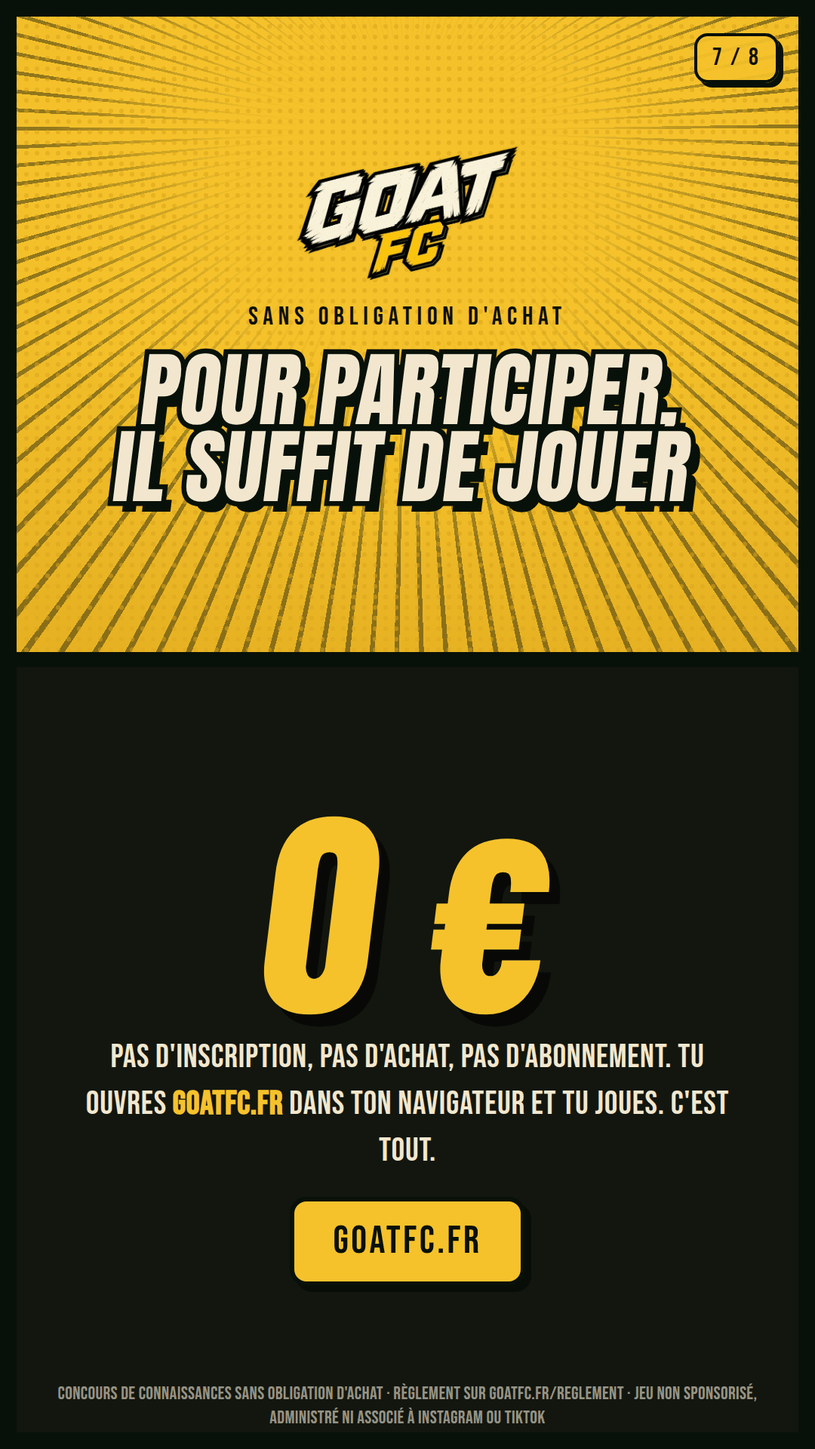
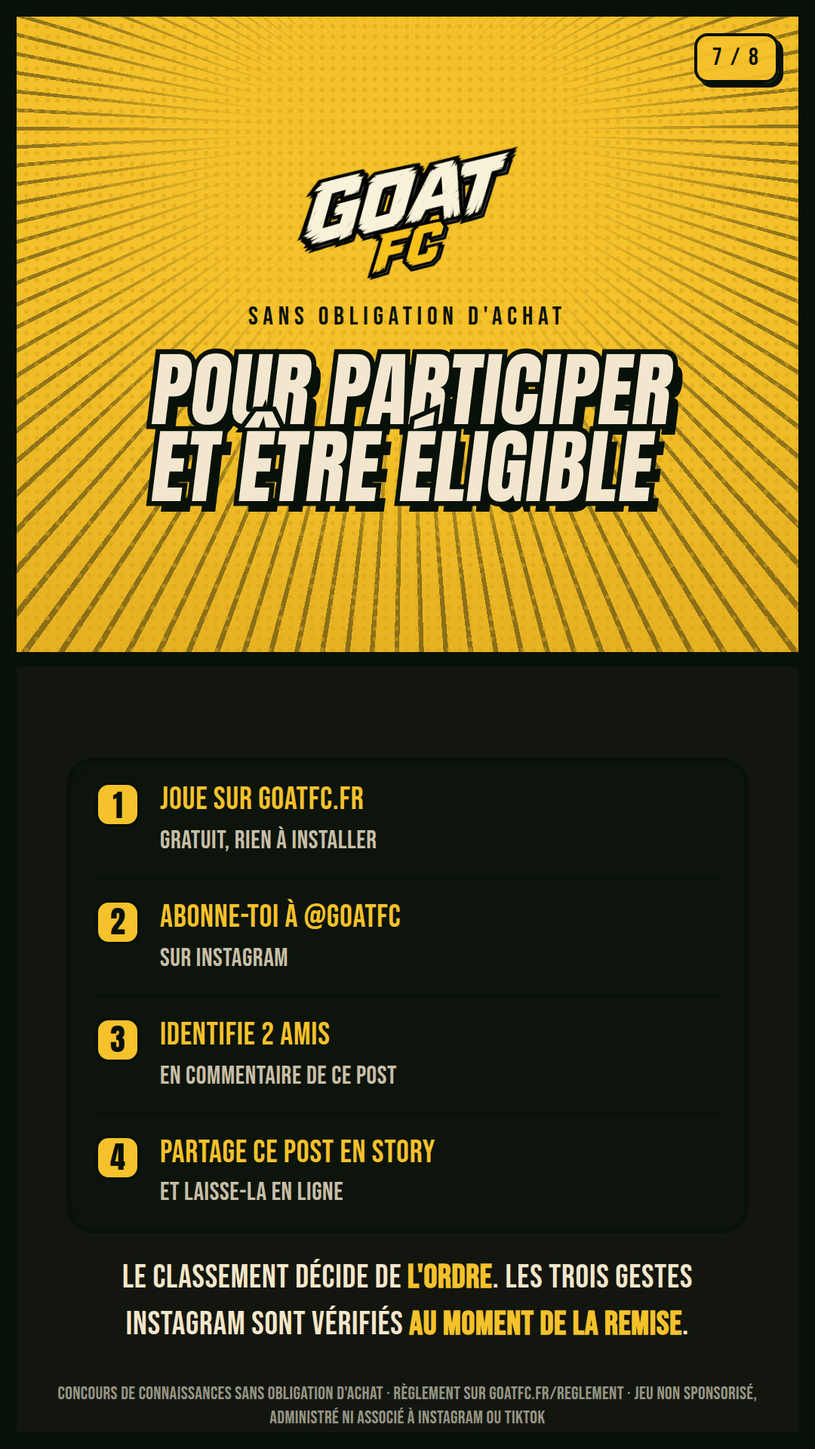
Conditions Instagram : annoncees, ecrites au reglement, et VERIFIABLES (#610)
Demande : indiquer qu'il faut s'abonner au compte Instagram, identifier
2 amis et partager en story.

Ce n'est pas une ligne de plus sur un visuel. Le reglement disait l'inverse,
et l'app ne pouvait pas le verifier.

── CE QUE CA CONTREDISAIT ────────────────────────────────────────────

Article 5 : « pour participer, il suffit de jouer ». Article 6 : le gagnant
est designe par ses SEULS resultats de jeu. Avec des conditions
obligatoires, quelqu'un peut finir premier et ne rien recevoir — c'est un
autre concours, et le reglement doit le dire.

Il le dit desormais, article 5.1, et il separe explicitement les deux
choses : le classement decide de L'ORDRE des trois places, les gestes
Instagram conditionnent la REMISE du lot a celui qui occupe la place. Les
deux ne se melangent pas.

── CE QUI LES REND APPLICABLES ───────────────────────────────────────

Un compte GOAT FC est ANONYME : aucun lien avec un pseudo Instagram. Les
conditions auraient donc ete decoratives — annoncees, jamais applicables.
Une condition qu'on ne peut pas verifier est pire que pas de condition :
elle promet un controle qui n'existe pas.

La reclamation demande donc le compte Instagram, et le refuse s'il manque.
C'est le seul rapprochement possible entre un gagnant et son abonnement,
son commentaire et sa story.

On ne verifie PAS que le compte existe : Instagram n'expose aucune interface
publique permettant de le savoir, et pretendre le faire serait un controle
[…]

Changed region(s): [[0.0917, 0.5312, 0.8861, 0.9375], [0.1222, 0.2188, 0.8556, 0.375]]

diff --git a/public/reglement/index.html b/public/reglement/index.html
@@ -174,7 +174,7 @@ footer {
 <li>Il se joue du <strong>1<sup>er</sup> au 30 septembre 2026</strong>, heure de Paris.</li>
 <li>Les <strong>trois premiers du classement mensuel</strong> repartent avec quelque chose : <strong>EA SPORTS FC 27 édition Ultimate</strong> pour le 1<sup>er</sup>, une carte cadeau de <strong>50 €</strong> pour le 2<sup>e</sup>, de <strong>30 €</strong> pour le 3<sup>e</sup>.</li>
 <li>Le classement récompense la <strong>régularité</strong> : rejouer le même mode vingt fois dans la journée n'ajoute rien.</li>
-<li>Aucune donnée n'est demandée pour participer : jouer suffit.</li>
+<li>Pour <strong>figurer au classement</strong>, jouer suffit. Pour <strong>recevoir un lot</strong>, il faut en plus être abonné à <strong>@goatfc</strong>, avoir identifié 2 amis en commentaire et partagé le post en story.</li>
 </ul>
 </div>
 
@@ -209,8 +209,24 @@ Site : goatfc.fr
 <p>Une seule participation par personne physique est admise. Un même joueur ne peut pas concourir avec plusieurs comptes ; le cas échéant, la section 9 s'applique.</p>
 
 <h2>5. Modalités de participation — gratuité</h2>
-<p>Pour participer, il suffit de jouer à GOAT FC pendant la période du concours. <strong>Aucune inscription spécifique, aucun achat, aucun abonnement et aucune dépense ne sont requis.</strong> L'application est gratuite et ne comporte à ce jour aucun achat intégré.</p>
+<p>Pour figurer au classement, il suffit de <strong>jouer à GOAT FC</strong> pendant la période du concours. Aucune inscription spécifique, aucun achat, aucun abonnement payant et aucune dépense ne sont requis. L'application est gratuite et ne comporte à ce jour aucun achat intégré.</p>
 <p>Les seuls frais éventuels sont ceux de la connexion Internet du participant, facturés par son opérateur selon son propre contrat, et que l'Organisateur ne rembourse pas — ces frais étant engagés que le participant concoure ou non.</p>
+
+<h3>5.1 — Conditions supplémentaires pour recevoir un lot</h3>
+<p>La remise d'un lot est en outre <strong>conditionnée aux trois actions suivantes</strong>, à effectuer sur le compte Instagram officiel <strong>@goatfc</strong> avant la fin du concours :</p>
+<div class="box">
+<ul>
+<li>être <strong>abonné</strong> au compte Instagram officiel ;</li>
+<li>avoir <strong>identifié deux (2) personnes en commentaire</strong> de la publication annonçant le concours ;</li>
+<li>avoir <strong>partagé cette publication en story</strong>, et l'avoir laissée en ligne jusqu'à la fin de sa durée de diffusion.</li>
+</ul>
+</div>
+<div class="warning">
+<p><strong>Ces actions ne changent rien au classement.</strong> Le classement est calculé sur les seuls résultats de jeu, et il détermine l'ordre des trois places. Les actions ci-dessus conditionnent uniquement la <strong>remise du lot</strong> à la personne qui occupe l'une de ces places.</p>
+<p>Elles sont <strong>vérifiées manuellement au moment de la réclamation</strong>, à partir du compte Instagram que le gagnant indique. Un compte GOAT FC étant anonyme, l'Organisateur n'a aucun autre moyen de faire ce rapprochement : c'est pourquoi le compte Instagram est demandé dans le formulaire de réclamation, et non déduit.</p>
+<p>Si un participant classé sur le podium ne remplit pas ces conditions, ou ne fournit pas de compte Instagram permettant de les vérifier, son lot est attribué au participant classé immédiatement après le troisième, selon les modalités de l'article 8.</p>
+</div>
+<p>Ces actions restent <strong>gratuites</strong> : le concours demeure sans obligation d'achat.</p>
 
 <h2>6. Désignation des gagnants</h2>
 <p>Le concours récompense les <strong>trois premières places</strong> du classement mensuel de septembre 2026, à l'arrêt du classement.</p>
@@ -260,6 +276,7 @@ Site : goatfc.fr
 <h2>8. Annonce et remise des lots</h2>
 <p>Les trois gagnants sont annoncés dans l'application à l'issue du mois : chacun voit apparaître, en haut de l'onglet Classement, un bandeau indiquant <strong>sa place et le lot qui lui revient</strong>. Ils reçoivent également une <strong>notification</strong> s'ils ont autorisé les notifications sur leur appareil.</p>
 <p>Chaque gagnant dispose d'un délai de <strong>trente (30) jours calendaires</strong> à compter de l'annonce pour réclamer son lot, depuis ce bandeau ou en écrivant à <span class="email">contact@goatfc.online</span>.</p>
+<p>La réclamation demande, outre l'adresse de remise, le <strong>compte Instagram</strong> du gagnant : c'est lui qui permet de vérifier les conditions de l'article 5.1. Sans compte Instagram vérifiable, la réclamation ne peut aboutir.</p>
 <div class="box">
 <p><strong>Comment prouver que le compte gagnant est bien le vôtre.</strong> GOAT FC ne demande ni email ni mot de passe : votre compte n'est identifié que par votre pseudo et par un <strong>code de récupération</strong> au format <strong>GOATFC-XXXX-XXXX</strong>, qui vous a été remis à la création de votre compte et que vous retrouvez à tout moment dans l'onglet <strong>Profil</strong>.</p>
 <p>Ce code est le seul élément qui n'est connu que de vous. Il vous est donc demandé de le joindre à votre réclamation : c'est ce qui empêche un tiers de réclamer un lot à votre place.</p>
@@ -292,7 +309,7 @@ Site : goatfc.fr
 
 <h2>11. Données personnelles</h2>
 <p>La participation au concours ne nécessite <strong>aucune donnée personnelle supplémentaire</strong> par rapport à l'usage ordinaire de l'application : le classement s'appuie sur le pseudo et les scores déjà traités dans le cadre du jeu.</p>
-<p>Des données ne sont demandées qu'<strong>au moment de la réclamation du lot</strong>, et seulement pour la remettre : adresse email de contact et, le cas échéant, confirmation de l'autorisation parentale pour un participant mineur. Ces données sont conservées le temps nécessaire à la remise du lot et aux obligations comptables et probatoires qui s'y rattachent, puis supprimées.</p>
+<p>Des données ne sont demandées qu'<strong>au moment de la réclamation du lot</strong>, et seulement pour la remettre ou pour vérifier l'éligibilité : adresse email de contact, <strong>nom du compte Instagram</strong> (pour contrôler les conditions de l'article 5.1) et, le cas échéant, confirmation de l'autorisation parentale pour un participant mineur. Ces données sont conservées le temps nécessaire à la remise du lot et aux obligations comptables et probatoires qui s'y rattachent, puis supprimées.</p>
 <p>Le traitement des données personnelles est décrit en détail dans la <a href="/privacy">politique de confidentialité</a>, qui précise également comment exercer vos droits d'accès, de rectification, d'effacement et d'opposition.</p>
 
 <h2>12. Responsabilité</h2>
@@ -329,7 +346,7 @@ Site : goatfc.fr
 <li>It runs from <strong>1 to 30 September 2026</strong>, Paris time.</li>
 <li>The <strong>top three in the monthly leaderboard</strong> all win something: <strong>EA SPORTS FC 27 Ultimate Edition</strong> for 1st, a <strong>€50</strong> gift card for 2nd, <strong>€30</strong> for 3rd.</li>
 <li>The leaderboard rewards <strong>consistency</strong>: replaying the same mode twenty times in one day adds nothing.</li>
-<li>No personal data is required to take part — playing is enough.</li>
+<li>To <strong>appear on the leaderboard</strong>, playing is enough. To <strong>receive a prize</strong>, you must also follow <strong>@goatfc</strong>, tag 2 friends in a comment and share the post to your story.</li>
 </ul>
 </div>
 
@@ -364,8 +381,24 @@ Website: goatfc.fr
 <p>One entry per natural person. A player may not compete using several accounts; where they do, section 9 applies.</p>
 
 <h2>5. How to take part — free entry</h2>
-<p>To take part, simply play GOAT FC during the contest period. <strong>No specific registration, no purchase, no subscription and no expense are required.</strong> The application is free and currently contains no in-app purchases.</p>
+<p>To appear on the leaderboard, simply <strong>play GOAT FC</strong> during the contest period. No specific registration, no purchase, no paid subscription and no expense are required. The application is free and currently contains no in-app purchases.</p>
 <p>The only possible cost is the participant's own Internet connection, billed by their provider under their own contract, and not reimbursed by the Organiser — since that cost is incurred whether or not the participant competes.</p>
+
+<h3>5.1 — Additional conditions to receive a prize</h3>
+<p>Delivery of a prize is further <strong>conditional on the following three actions</strong>, to be completed on the official Instagram account <strong>@goatfc</strong> before the contest ends:</p>
+<div class="box">
+<ul>
+<li><strong>follow</strong> the official Instagram account;</li>
+<li><strong>tag two (2) people in a comment</strong> on the post announcing the contest;</li>
+<li><strong>share that post to your story</strong>, and leave it online for its full display duration.</li>
+</ul>
+</div>
+<div class="warning">
+<p><strong>These actions do not affect the leaderboard.</strong> The leaderboard is computed from game results alone, and it determines the order of the three places. The actions above condition only the <strong>delivery of the prize</strong> to whoever holds one of those places.</p>
+<p>They are <strong>verified manually at claim time</strong>, using the Instagram account the winner provides. A GOAT FC account is anonymous, so the Organiser has no other way to make that connection: this is why the Instagram account is requested in the claim form rather than inferred.</p>
+<p>Should a podium participant fail to meet these conditions, or fail to provide an Instagram account allowing them to be verified, their prize is awarded to the participant ranked immediately after the third, under the terms of section 8.</p>
+</div>
+<p>These actions remain <strong>free of charge</strong>: the contest is still no-purchase-necessary.</p>
 
 <h2>6. Determining the winners</h2>
 <p>The contest rewards the <strong>top three places</strong> in the September 2026 monthly leaderboard, as at the moment it is frozen.</p>
@@ -415,6 +448,7 @@ Website: goatfc.fr
 <h2>8. Announcement and delivery of the prizes</h2>
 <p>The three winners are announced in the application at the end of the month: each sees a banner at the top of the Leaderboard tab showing <strong>their place and the prize due to them</strong>. They also receive a <strong>notification</strong> if notifications are enabled on their device.</p>
 <p>Each winner has <strong>thirty (30) calendar days</strong> from the announcement to claim their prize, from that banner or by writing to <span class="email">contact@goatfc.online</span>.</p>
+<p>The claim asks, besides the delivery address, for the winner's <strong>Instagram account</strong>: that is what allows the section 5.1 conditions to be verified. Without a verifiable Instagram account, the claim cannot proceed.</p>
 <div class="box">
 <p><strong>How to prove the winning account is yours.</strong> GOAT FC asks for no email and no password: your account is identified only by your username and by a <strong>recovery code</strong> in the form <strong>GOATFC-XXXX-XXXX</strong>, given to you when your account was created and available at any time in the <strong>Profile</strong> tab.</p>
 <p>That code is the only element known to you alone. You are therefore asked to include it with your claim: it is what prevents someone else from claiming a prize in your place.</p>
@@ -447,7 +481,7 @@ Website: goatfc.fr
 
 <h2>11. Personal data</h2>
 <p>Taking part requires <strong>no personal data beyond ordinary use of the application</strong>: the leaderboard relies on the username and scores already processed as part of the game.</p>
-<p>Data is requested only <strong>when the prize is claimed</strong>, and solely in order to deliver it: a contact email address and, where applicable, confirmation of parental authorisation for a minor. That data is kept for as long as needed to deliver the prize and to meet the related accounting and evidential obligations, then deleted.</p>
+<p>Data is requested only <strong>when the prize is claimed</strong>, and solely in order to deliver it or to verify eligibility: a contact email address, the <strong>Instagram account name</strong> (to check the section 5.1 conditions) and, where applicable, confirmation of parental authorisation for a minor. That data is kept for as long as needed to deliver the prize and to meet the related accounting and evidential obligations, then deleted.</p>
 <p>Personal data processing is described in full in the <a href="/privacy">privacy policy</a>, which also explains how to exercise your rights of access, rectification, erasure and objection.</p>
 
 <h2>12. Liability</h2>

diff --git a/src/components/LePont.jsx b/src/components/LePont.jsx
@@ -21,8 +21,8 @@ import { duelTermine } from "../lib/duel";
 // Réclamation du lot : les règles (qui peut réclamer, pour quel mois, ce qu'on
 // accepte comme saisie) et le tirage sûr du code de récupération.
 import { saisonDoteeRecente, lotPourRang, rangDans, moisDeLaSaison, libellePlace,
-         medaille, souhaitDuRang, manques, normaliserCode, tirerCode,
-         PLATEFORMES } from "../lib/reclamation";
+         medaille, souhaitDuRang, manques, normaliserCode, normaliserInstagram,
+         tirerCode, PLATEFORMES } from "../lib/reclamation";
 import { prochainsTotauxXp } from "../lib/xp";
 // Règles de tirage anti-répétition, partagées avec « Trouve le joueur ».
 import { clePaire, pairesRetenues, tirerEnEvitant, memoriser } from "../lib/tirage.js";
@@ -3641,7 +3641,7 @@ export default function LePont() {
   // classement final du mois, ce qu'on ne fait pas soixante fois par seconde.
   const [monLot, setMonLot] = useState(null);
   const [reclamationOuverte, setReclamationOuverte] = useState(false);
-  const [recForm, setRecForm] = useState({ code:"", email:"", plateforme:"", autorisation:false });
+  const [recForm, setRecForm] = useState({ code:"", email:"", instagram:"", plateforme:"", autorisation:false });
   const [recEtat, setRecEtat] = useState(null);   // null | "envoi" | "ok" | "deja"
   const [recMsg, setRecMsg] = useState("");
   const [showHallOfFame, setShowHallOfFame] = useState(false);
@@ -8145,6 +8145,7 @@ export default function LePont() {
         method: "POST",
         body: JSON.stringify({
           p_code: code, p_email: recForm.email.trim(),
+          p_instagram: normaliserInstagram(recForm.instagram),
           p_plateforme: recForm.plateforme, p_autorisation: true,
         }),
       });
@@ -8171,6 +8172,7 @@ export default function LePont() {
       const raisons = {
         code_inconnu: tr("❌ Ce code ne correspond à aucun compte.","❌ This code matches no account.","❌ Dieser Code gehört zu keinem Konto.","❌ Questo codice non corrisponde a nessun account.","❌ Este código não corresponde a nenhuma conta.","❌ Este código no corresponde a ninguna cuenta."),
         email: tr("❌ Cette adresse email ne semble pas valide.","❌ That email address doesn't look valid.","❌ Diese E-Mail-Adresse scheint ungültig.","❌ Questo indirizzo email non sembra valido.","❌ Este email não parece válido.","❌ Ese correo no parece válido."),
+        instagram: tr("❌ Indique ton compte Instagram : c'est lui qui permet de vérifier l'abonnement, les 2 amis identifiés et la story.","❌ Enter your Instagram account: that's what lets us check the follow, the 2 tagged friends and the story.","❌ Gib dein Instagram-Konto an: nur so lassen sich Abo, die 2 markierten Freunde und die Story prüfen.","❌ Indica il tuo account Instagram: serve a verificare il follow, i 2 amici taggati e la storia.","❌ Informe sua conta do Instagram: é o que permite verificar o follow, os 2 amigos marcados e o story.","❌ Indica tu cuenta de Instagram: es lo que permite comprobar el seguimiento, los 2 amigos etiquetados y la historia."),
         autorisation: tr("❌ Il faut cocher la déclaration.","❌ You must tick the declaration.","❌ Du musst die Erklärung ankreuzen.","❌ Devi spuntare la dichiarazione.","❌ É preciso marcar a declaração.","❌ Debes marcar la declaración."),
         pas_de_lot: tr("❌ Ce compte n'a pas de lot à réclamer.","❌ This account has no prize to claim.","❌ Dieses Konto hat keinen Gewinn.","❌ Questo account non ha premi da reclamare.","❌ Esta conta não tem prêmio a reclamar.","❌ Esta cuenta no tiene premio que reclamar."),
         delai_depasse: tr("❌ Le délai de réclamation est dépassé. Écris à contact@goatfc.online","❌ The claim period has ended. Email contact@goatfc.online","❌ Die Frist ist abgelaufen. Schreib an contact@goatfc.online","❌ Il termine è scaduto. Scrivi a contact@goatfc.online","❌ O prazo terminou. Escreva para contact@goatfc.online","❌ El plazo ha terminado. Escribe a contact@goatfc.online"),
@@ -8293,6 +8295,25 @@ export default function LePont() {
                   choix — leur proposer « PlayStation / Xbox / PC » n'aurait
                   aucun sens, et une liste d'enseignes serait forcément
                   incomplète. C'est donc un champ libre. */}
+              <div style={{fontSize:11,color:"rgba(255,255,255,.5)",fontWeight:700,letterSpacing:1,marginBottom:6}}>
+                {tr("TON COMPTE INSTAGRAM","YOUR INSTAGRAM ACCOUNT","DEIN INSTAGRAM-KONTO","IL TUO ACCOUNT INSTAGRAM","SUA CONTA DO INSTAGRAM","TU CUENTA DE INSTAGRAM")}
+              </div>
+              <input value={recForm.instagram} maxLength={31}
+                onChange={function(e){setRecForm({...recForm,instagram:e.target.value});setRecMsg("");}}
+                placeholder="@ton.pseudo" style={champ}/>
+              {/* La RAISON du champ est dite ici, au moment où on le demande.
+                  Un gagnant à qui on réclame son Instagram sans expliquer
+                  pourquoi a toutes les raisons de se méfier — et l'article 5.1
+                  du règlement, lui, se lit ailleurs. */}
+              <div style={{fontSize:11.5,color:"rgba(255,255,255,.45)",lineHeight:1.5,marginBottom:14}}>
+                {tr("Il sert à vérifier les conditions du règlement : abonnement au compte, 2 amis identifiés en commentaire et partage en story. Un compte GOAT FC étant anonyme, c'est le seul lien possible.",
+                    "It's used to check the contest conditions: following the account, 2 friends tagged in a comment, and a story share. A GOAT FC account is anonymous, so it's the only possible link.",
+                    "Er dient zur Prüfung der Bedingungen: Abo, 2 markierte Freunde im Kommentar und Story-Teilung. Ein GOAT-FC-Konto ist anonym — das ist die einzige mögliche Verbindung.",
+                    "Serve a verificare le condizioni: follow, 2 amici taggati nei commenti e condivisione in storia. Un account GOAT FC è anonimo, è l'unico collegamento possibile.",
+                    "Serve para verificar as condições: seguir a conta, 2 amigos marcados no comentário e partilha no story. Uma conta GOAT FC é anónima, é a única ligação possível.",
+                    "Sirve para comprobar las condiciones: seguir la cuenta, 2 amigos etiquetados en comentario y compartir en historia. Una cuenta GOAT FC es anónima, es el único vínculo posible.")}
+              </div>
+
               <div style={{fontSize:11,color:"rgba(255,255,255,.5)",fontWeight:700,letterSpacing:1,marginBottom:8}}>
                 {souhaitDuRang(rang) === "plateforme"
                   ? tr("PLATEFORME","PLATFORM","PLATTFORM","PIATTAFORMA","PLATAFORMA","PLATAFORMA")
@@ -12100,7 +12121,7 @@ export default function LePont() {
                 // le pré-remplir évite de l'aller chercher dans le profil, et
                 // ne révèle rien que cet appareil ne sache déjà.
                 let connu = ""; try { connu = localStorage.getItem("bb_recovery_code") || ""; } catch {}
-                setRecForm({ code:connu, email:"", plateforme:"", autorisation:false });
+                setRecForm({ code:connu, email:"", instagram:"", plateforme:"", autorisation:false });
               }} style={{...btn(G.nuit,G.creme,15),width:"100%",padding:"14px"}}>
                 {tr("Réclamer mon lot →","Claim my prize →","Gewinn anfordern →","Reclama il premio →","Reclamar meu prêmio →","Reclamar mi premio →")}
               </button>

diff --git a/src/test/reclamation.test.ts b/src/test/reclamation.test.ts
@@ -3,6 +3,7 @@ import {
   moisDeLaSaison, saisonDuMois, saisonDoteeRecente, lotPourRang, rangDans,
   libellePlace, medaille, emailPlausible, normaliserCode, codeValide,
   plateformeValide, enseigneValide, souhaitDuRang, manques,
+  instagramValide, normaliserInstagram,
   tirerCode, ALPHABET_CODE, MOTIF_CODE,
 } from "../lib/reclamation";
 
@@ -173,7 +174,8 @@ describe("le code", () => {
 });
 
 describe("manques", () => {
-  const bon = { code: "GOATFC-AAAA-BBBB", email: "a@b.fr", plateforme: "ps5", autorisation: true };
+  const bon = { code: "GOATFC-AAAA-BBBB", email: "a@b.fr", instagram: "toto",
+                plateforme: "ps5", autorisation: true };
   it("ne signale rien quand tout est là", () => {
     expect(manques(bon, 1)).toEqual([]);
   });
@@ -184,8 +186,9 @@ describe("manques", () => {
     expect(manques({ ...bon, email: "x" }, 1)).toEqual(["email"]);
     expect(manques({ ...bon, plateforme: "gameboy" }, 1)).toEqual(["plateforme"]);
     expect(manques({ ...bon, autorisation: false }, 1)).toEqual(["autorisation"]);
-    expect(manques({ code: "", email: "", plateforme: "", autorisation: false }, 1))
-      .toEqual(["code", "email", "plateforme", "autorisation"]);
+    expect(manques({ ...bon, instagram: "" }, 1)).toEqual(["instagram"]);
+    expect(manques({ code: "", email: "", instagram: "", plateforme: "", autorisation: false }, 1))
+      .toEqual(["code", "email", "instagram", "plateforme", "autorisation"]);
   });
 
   // ── LE CHAMP CHANGE DE NATURE SELON LA PLACE ────────────────────────────
@@ -211,6 +214,28 @@ describe("manques", () => {
     expect(enseigneValide("Steam")).toBe(true);
     expect(enseigneValide("x".repeat(61))).toBe(false);
   });
+  // ── LE COMPTE INSTAGRAM ─────────────────────────────────────────────────
+  // Le règlement conditionne la remise à trois actions sur Instagram, et un
+  // compte GOAT FC est anonyme : ce pseudo est le SEUL lien possible entre le
+  // gagnant et son abonnement, son commentaire et sa story. Sans lui la
+  // condition serait décorative — annoncée, jamais applicable.
+  it("le compte Instagram est obligatoire, quel que soit le rang", () => {
+    for (const rang of [1, 2, 3]) {
+      expect(manques({ ...bon, plateforme: rang === 1 ? "ps5" : "Fnac", instagram: "" }, rang))
+        .toContain("instagram");
+    }
+  });
+  it("accepte la forme qu'Instagram s'impose, arobase optionnelle", () => {
+    for (const v of ["toto", "@toto", "to.to_99", "a", "x".repeat(30)])
+      expect(instagramValide(v)).toBe(true);
+    for (const v of ["", "  ", "a b", "toto!", "x".repeat(31), "@@toto"])
+      expect(instagramValide(v)).toBe(false);
+  });
+  it("range le pseudo sans arobase — « @toto » et « toto » sont le même compte", () => {
+    expect(normaliserInstagram("  @Toto.99 ")).toBe("Toto.99");
+    expect(normaliserInstagram("Toto.99")).toBe("Toto.99");
+  });
+
   it("la plateforme doit être une de celles proposées", () => {
     expect(plateformeValide("ps5")).toBe(true);
     expect(plateformeValide("autre")).toBe(true);

diff --git a/src/lib/reclamation.js b/src/lib/reclamation.js
@@ -193,16 +193,41 @@ export function enseigneValide(valeur) {
 }
 
 /**
+ * Un pseudo Instagram plausible.
+ *
+ * Le règlement (article 5.1) conditionne la remise à trois actions sur
+ * Instagram : abonnement, deux amis identifiés en commentaire, partage en
+ * story. Un compte GOAT FC étant anonyme, le pseudo Instagram est le SEUL
+ * moyen de rapprocher le gagnant de ces trois actions.
+ *
+ * On ne vérifie PAS que le compte existe : Instagram n'expose aucune interface
+ * publique permettant de le savoir, et prétendre le faire ici serait un
+ * contrôle de façade. On vérifie la FORME — celle qu'Instagram s'impose :
+ * lettres, chiffres, point et tiret bas, 30 caractères au plus. L'arobase est
+ * tolérée en entrée et retirée au rangement, pour que « @toto » et « toto » ne
+ * fassent pas deux dossiers.
+ */
+export function instagramValide(valeur) {
+  return /^@?[A-Za-z0-9._]{1,30}$/.test(String(valeur || "").trim());
+}
+
+/** Le pseudo Instagram sous sa forme rangée : sans arobase ni espaces. */
+export function normaliserInstagram(valeur) {
+  return String(valeur || "").trim().replace(/^@+/, "");
+}
+
+/**
  * Le formulaire est-il envoyable ? Rend la liste des manques, pas un booléen :
  * un écran qui dit « formulaire invalide » sans dire quoi fait recommencer à
  * l'aveugle.
  *
  * `rang` décide de la nature du troisième champ — voir souhaitDuRang.
  */
-export function manques({ code, email, plateforme, autorisation }, rang) {
+export function manques({ code, email, instagram, plateforme, autorisation }, rang) {
   const out = [];
   if (!codeValide(code)) out.push("code");
   if (!emailPlausible(email)) out.push("email");
+  if (!instagramValide(instagram)) out.push("instagram");
   if (souhaitDuRang(rang) === "plateforme") {
     if (!plateformeValide(plateforme)) out.push("plateforme");
   } else if (!enseigneValide(plateforme)) out.push("enseigne");

diff --git a/public/sw.js b/public/sw.js
@@ -4,7 +4,7 @@
 // IMPORTANT : bumper CACHE_NAME à chaque deploy pour forcer le navigateur
 // à détecter un nouveau SW (les changements de fichier suffisent en théorie
 // mais ça garantit un install propre côté PWA mobile installée).
-const CACHE_NAME = "goatfc-v549-2026-08-15";
+const CACHE_NAME = "goatfc-v550-2026-08-15";
 
 // Install : on prend la main tout de suite sans attendre la fermeture des onglets
 self.addEventListener("install", (event) => {

diff --git a/visuels/annonces/legendes.md b/visuels/annonces/legendes.md
@@ -20,6 +20,8 @@ Les TROIS premiers du classement mensuel de GOAT FC repartent avec quelque chose
 Tout le monde part à égalité le 1er septembre. Le classement compte les points de tes six modes préférés, jour après jour — donc ça ne se gagne pas en une soirée, ça se gagne en revenant.
 
 👉 Ça se joue sur goatfc.fr, sans rien installer.
+
+⚠ Pour être éligible aux lots : abonne-toi à @goatfc, identifie 2 amis en commentaire et partage ce post en story. Le classement décide de l'ordre, ces 3 gestes sont vérifiés à la remise.
 📱 Et l'appli arrive sur iOS et Android en octobre.
 
 Concours de connaissances sans obligation d'achat. Règlement complet sur goatfc.fr/reglement. Jeu non sponsorisé, administré ni associé à Instagram. Lots dématérialisés, plateforme ou enseigne au choix des gagnants.
@@ -37,6 +39,8 @@ Le podium de septembre repart avec 🏆
 
 Classement remis à zéro le 1er septembre — tout le monde part à égalité.
 Ça se joue sur goatfc.fr, appli iOS et Android en octobre 📱
+
+Pour être éligible : abonne-toi, identifie 2 amis, partage en story
 
 Règlement sur goatfc.fr/reglement · Sans obligation d'achat · Jeu non associé à TikTok
 
